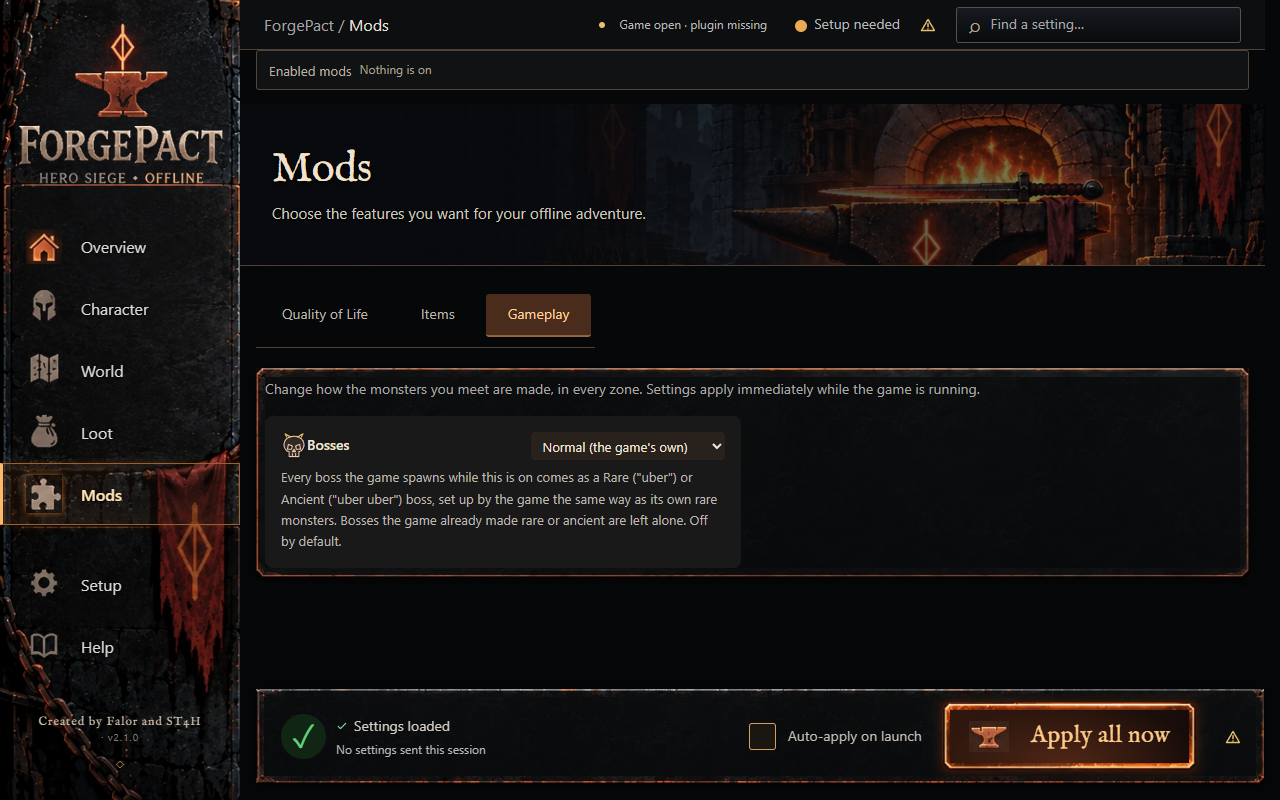
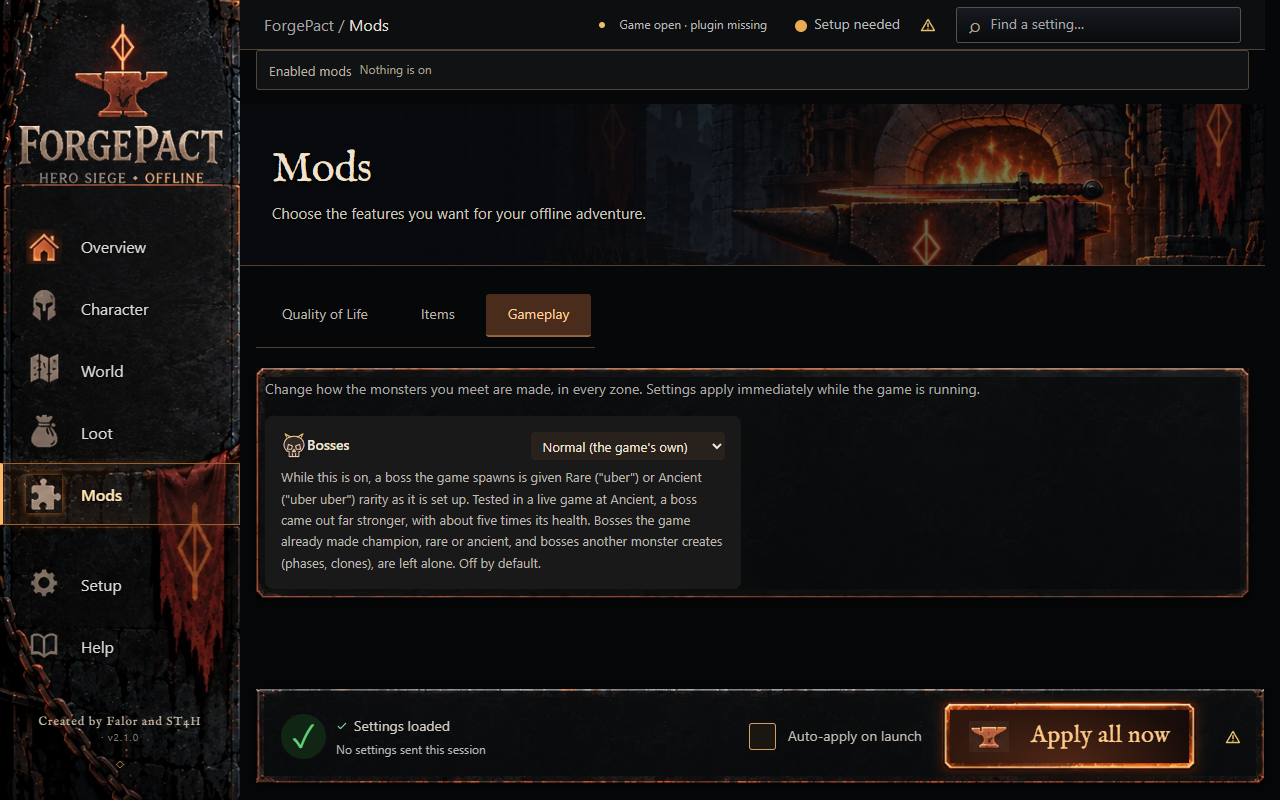
forgepact-issue-44-uber-bosses live2-record: the shipped build confirmed through the panel

Changed region(s): [[0.1875, 0.5938, 0.9688, 0.75]]

diff --git a/panel/src/tabs/Mods.svelte b/panel/src/tabs/Mods.svelte
@@ -141,7 +141,7 @@
 <div class="card tab-card" data-tab="mods" id="gameplayCard" role="tabpanel" aria-labelledby="subtab-gameplay">
   <div class="hint">Change how the monsters you meet are made, in every zone. Settings apply immediately while the game is running.</div>
   <div class="row" style="border:none">
-    <span class="lbl" style="width:auto;flex:1">Bosses<br><span class="feature-description">While this is on, a boss the game spawns is given Rare ("uber") or Ancient ("uber uber") rarity as it is set up. What that rarity changes on a boss is still being measured. Bosses the game already made champion, rare or ancient, and bosses another monster creates (phases, clones), are left alone. Off by default.</span></span>
+    <span class="lbl" style="width:auto;flex:1">Bosses<br><span class="feature-description">While this is on, a boss the game spawns is given Rare ("uber") or Ancient ("uber uber") rarity as it is set up. Tested in a live game at Ancient, a boss came out far stronger, with about five times its health. Bosses the game already made champion, rare or ancient, and bosses another monster creates (phases, clones), are left alone. Off by default.</span></span>
     <select class="style-select" id="boss_rarity">
       <option value="off">Normal (the game's own)</option>
       <option value="rare">Rare &mdash; "uber" boss</option>

diff --git a/README.md b/README.md
@@ -53,7 +53,7 @@ none of these diagnostic hooks or the recorder. See
 | **Move all into the stash** | Mods → Quality of Life, off by default. With the stash open, click the **Move All** button, with the look of the backpack's Sort button, in its row just left of it and under the Extra tab above, or press F4, and every item on the backpack tab you are looking at moves into the stash tab you are looking at, one at a time, by the game's own move for each item. When the tab fills up, the rest stay in your backpack and never spill onto another stash tab or page. A stackable joins a stack of its kind with room for it (up to 999), or starts a new stack on the same tab; on the Socketable tab a socketable joins the one stack of its kind, and a new kind stays in your backpack ([details](#move-all-into-the-stash)) |
 | **Gems of Incarnation** | Loot → Gems of Incarnation. Off by default. Every Gem of Incarnation that drops is Mythic, with 4 or 5 mods, rolled by the game itself - and with a filter, with the mods you ticked; every mod on every Gem of Incarnation shows the highest value its best tier can roll. Two switches and a mod filter, nothing written to your save ([details](#gems-of-incarnation)) |
 | **Remove Owned Relics** | A relic you already own at 10/10, worn or in the backpack's relic tab, stops dropping: when the game picks it, it picks again, so another relic drops in its place and every other relic keeps its usual odds |
-| **Bosses** | Mods → Gameplay, off by default. Every boss that spawns comes as a Rare ("uber") or Ancient ("uber uber") boss, its rarity set just before the game's own rarity setup runs; whether a boss is then built like one of the game's rare or ancient monsters is not yet confirmed. Bosses the game already made rare are left alone, and the Monster Rarity sliders still never touch a boss. Not yet confirmed in a live game: that every boss really comes out raised, that the extra affixes appear, and what the raise does to its health, damage, experience, drops and look ([details](#bosses-uber-and-uber-uber-bosses)) |
+| **Bosses** | Mods → Gameplay, off by default. Every boss that spawns comes as a Rare ("uber") or Ancient ("uber uber") boss, its rarity set just before the game's own rarity setup runs. Measured live (2026-10-02): an Ancient Karp King had about 4.7 to 5.7 times its health, about 2.1 times its damage and 6.25 times its experience, and rolled its loot at the ancient rank; an ancient look, more loot and what Rare changes were not observed. Bosses the game already made rare are left alone, and the Monster Rarity sliders still never touch a boss ([details](#bosses-uber-and-uber-uber-bosses)) |
 | **Auto-apply** | Saved settings are re-sent every time the game starts |
 | **Frame profiler** | Plugin command `frameprof start [seconds]`: measures what the game spends its frames on - frame times, the heaviest events, scripts and built-ins, what ran during each slow frame, CPU per thread - and writes a report to `bp_ipc\perf`; `tools/frameprof_report.py` turns it into a page. Changes nothing in the game; costs nothing until started ([details](#frame-profiler-where-the-games-frame-time-goes)) |
 
@@ -260,19 +260,28 @@ prints the status with path-start and applied counters.
 own)**, the default, which changes nothing; **Rare — "uber" boss**; or **Ancient — "uber
 uber" boss**. While it is set to Rare or Ancient, every boss that spawns comes at that
 rarity, its rarity set just before the game's own setup runs, through the same
-`EnemyRaritySettings` hook the Monster Rarity sliders and Tyrant's Crown use. Whether the
-game then builds a boss the way it builds its own rare and ancient monsters is not yet
-confirmed. A raised boss gets the same affix top-up the sliders give a monster they
-raise: up to two affixes on a rare, three on an ancient.
+`EnemyRaritySettings` hook the Monster Rarity sliders and Tyrant's Crown use. A raised boss
+gets the same affix top-up the sliders give a monster they raise: up to two affixes on a
+rare, three on an ancient.
 
 - **Left alone:** a boss the game already made champion, rare or ancient keeps its own
   rarity; the monsters, phases and clones a boss creates during its fight keep theirs;
   ordinary monsters are never touched by this setting. The Monster Rarity sliders on the
   World tab still leave every boss alone.
-- **Not yet confirmed in a live game:** that every boss really comes out raised, that the
-  extra affixes appear, and what the raise does to a boss's health, damage, experience,
-  drops and look, so nothing here claims them
-  ([research and test scope](docs/boss-rarity-research.md)).
+- **Measured in a live game (2026-10-02, research build):** a Karp King set to Rare and to
+  Ancient, and Damien, Uber Damien and Uber Anubis set to Ancient, each came out at that
+  rarity with its extra affixes. On an Ancient Karp King the game built a stronger boss
+  from the rarity: about 4.7 times its rank-1 health in one session and 5.7 times in
+  another, about 2.1 times its damage, exactly 6.25 times its experience, and its death
+  handed the drop roll rank 4 instead of 1.
+- **Not observed:** an ancient look (its name bar and body looked the same), more or better
+  loot (one kill at each rank, 10 against 12 items, too few to tell), extra boss gems, runes
+  or parts, and what Rare changes on a boss beyond its rarity. Not observed is not "does not
+  happen" ([research and test scope](docs/boss-rarity-research.md)).
+- **The shipped plugin (2026-10-02, release build `b235c9fd…5c81`):** the panel turned
+  the setting to Ancient and back off in a running game, `bossrarity status` followed it
+  (`hook=ok`) and the hook installed on both routes. No boss was fought on that build, so
+  the raise itself was measured on the research build.
 - **Commands:** the panel sends `bossrarity rare`, `bossrarity ancient` or
   `bossrarity off`. `bossrarity status` (or `bossrarity` alone) prints the mode, how many
   bosses were raised and seen, how many were left alone and why, and whether the hook is

diff --git a/release-notes-v2.2.0.md b/release-notes-v2.2.0.md
@@ -9,8 +9,9 @@ loot your filter hides to sleep so the game stops updating it every frame, and
 shows it again while you hold a key.
 
 A new **Bosses** setting, off by default, on a new **Gameplay** page of the Mods
-tab, is built to make every boss come as a Rare ("uber") or Ancient ("uber
-uber") boss; that has not yet been confirmed in a live game.
+tab, makes every boss come as a Rare ("uber") or Ancient ("uber uber") boss.
+Measured in a live game: a boss set to Ancient had about five times its usual
+health, about twice its damage and 6.25 times its experience.
 
 ## New
 
@@ -68,9 +69,19 @@ uber") boss; that has not yet been confirmed in a live game.
   not affected, and the Monster Rarity sliders on the World tab still leave
   bosses alone. If the plugin cannot set it up on your game,
   `bossrarity status` in the log says so (`hook=failed` or `hook=table-only`).
-  Not yet confirmed in a live game: that every boss really comes out raised,
-  that the extra affixes appear, and what the raise does to its health, damage,
-  experience, drops and look.
+  What was measured in a live game, on 2026-10-02: on the research build, a
+  Karp King set to Rare and to Ancient, and Damien, Uber Damien and Uber Anubis
+  set to Ancient, each came out at the rarity chosen with its extra affixes. On
+  an Ancient Karp King the game then built a stronger boss: about 4.7 to 5.7
+  times its usual health (two sessions), about 2.1 times its damage and 6.25
+  times its experience, and its death rolled its loot at the ancient rank
+  instead of the normal one. Not seen in those sessions: an ancient look (its
+  name bar looked the same), more or better loot (one kill at each rank, too
+  few to tell), or extra boss gems, runes or parts; and what Rare changes on a
+  boss beyond its rarity was not measured. On the release plugin, the panel
+  turned the setting on and off in a running game and the hook went in on
+  both routes; no boss was fought on that build, so the raise itself was
+  measured on the research build.
 
 ## How to update
 
